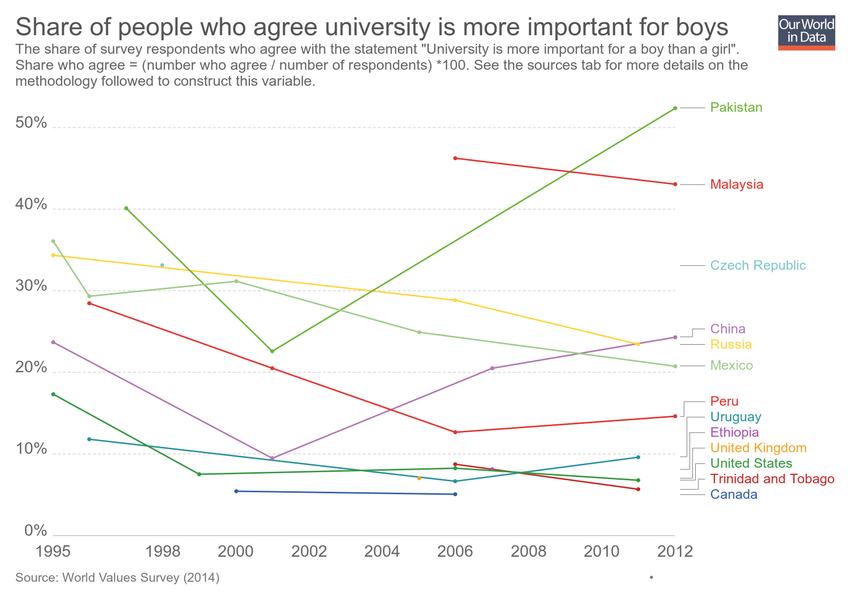
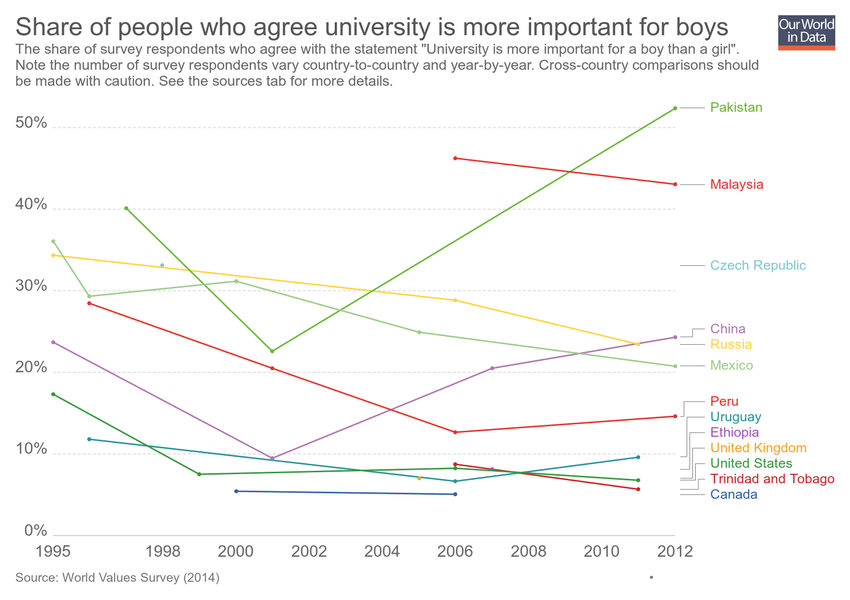
Updating chart share-of-people-who-agree-university-is-more-important-for-boys

Changed region(s): [[0.0, 0.09, 0.8871, 0.15]]

diff --git a/grapher/share-of-people-who-agree-university-is-more-important-for-boys.html b/grapher/share-of-people-who-agree-university-is-more-important-for-boys.html
@@ -1,7 +1,4 @@
-<!doctype html><html><head><meta name="viewport" content="width=device-width, initial-scale=1" /><title>Share of people who agree university is more important for boys - Our World in Data</title><meta name="description" content="The share of survey respondents who agree with the statement &quot;University is more important for a boy than a girl&quot;. 
-Share who agree = (number who agree / number of respondents) *100. See the sources tab for more details on the methodology followed to construct this variable." /><link rel="canonical" href="https://ourworldindata.org/grapher/share-of-people-who-agree-university-is-more-important-for-boys" /><meta property="fb:app_id" content="1149943818390250" /><meta property="og:url" content="https://ourworldindata.org/grapher/share-of-people-who-agree-university-is-more-important-for-boys" /><meta property="og:title" content="Share of people who agree university is more important for boys" /><meta property="og:description" content="The share of survey respondents who agree with the statement &quot;University is more important for a boy than a girl&quot;. 
-Share who agree = (number who agree / number of respondents) *100. See the sources tab for more details on the methodology followed to construct this variable." /><meta property="og:image" content="https://ourworldindata.org/grapher/exports/share-of-people-who-agree-university-is-more-important-for-boys.png?v=1" /><meta property="og:image:width" content="850" /><meta property="og:image:height" content="600" /><meta property="og:site_name" content="Our World in Data" /><meta name="twitter:card" content="summary_large_image" /><meta name="twitter:site" content="@OurWorldInData" /><meta name="twitter:creator" content="@OurWorldInData" /><meta name="twitter:title" content="Share of people who agree university is more important for boys" /><meta name="twitter:description" content="The share of survey respondents who agree with the statement &quot;University is more important for a boy than a girl&quot;. 
-Share who agree = (number who agree / number of respondents) *100. See the sources tab for more details on the methodology followed to construct this variable." /><meta name="twitter:image" content="https://ourworldindata.org/grapher/exports/share-of-people-who-agree-university-is-more-important-for-boys.png?v=1" /><style>
+<!doctype html><html><head><meta name="viewport" content="width=device-width, initial-scale=1" /><title>Share of people who agree university is more important for boys - Our World in Data</title><meta name="description" content="The share of survey respondents who agree with the statement &quot;University is more important for a boy than a girl&quot;. Note the number of survey respondents vary country-to-country and year-by-year. Cross-country comparisons should be made with caution. See the sources tab for more details." /><link rel="canonical" href="https://ourworldindata.org/grapher/share-of-people-who-agree-university-is-more-important-for-boys" /><meta property="fb:app_id" content="1149943818390250" /><meta property="og:url" content="https://ourworldindata.org/grapher/share-of-people-who-agree-university-is-more-important-for-boys" /><meta property="og:title" content="Share of people who agree university is more important for boys" /><meta property="og:description" content="The share of survey respondents who agree with the statement &quot;University is more important for a boy than a girl&quot;. Note the number of survey respondents vary country-to-country and year-by-year. Cross-country comparisons should be made with caution. See the sources tab for more details." /><meta property="og:image" content="https://ourworldindata.org/grapher/exports/share-of-people-who-agree-university-is-more-important-for-boys.png?v=2" /><meta property="og:image:width" content="850" /><meta property="og:image:height" content="600" /><meta property="og:site_name" content="Our World in Data" /><meta name="twitter:card" content="summary_large_image" /><meta name="twitter:site" content="@OurWorldInData" /><meta name="twitter:creator" content="@OurWorldInData" /><meta name="twitter:title" content="Share of people who agree university is more important for boys" /><meta name="twitter:description" content="The share of survey respondents who agree with the statement &quot;University is more important for a boy than a girl&quot;. Note the number of survey respondents vary country-to-country and year-by-year. Cross-country comparisons should be made with caution. See the sources tab for more details." /><meta name="twitter:image" content="https://ourworldindata.org/grapher/exports/share-of-people-who-agree-university-is-more-important-for-boys.png?v=2" /><style>
         html, body {
             height: 100%;
             margin: 0;
@@ -23,8 +20,8 @@ Share who agree = (number who agree / number of respondents) *100. See the sourc
         }
     </style><noscript><style>
                     figure { display: none !important; }
-                </style></noscript><link rel="stylesheet" href="https://ourworldindata.org/grapher/assets/commons.bundle.dcbbe53805c487d5e57617b10ac73a8a.css" /><link rel="preload" href="/grapher/data/variables/97464.json?v=1" as="fetch" crossorigin /></head><body class="singleChart"><figure data-grapher-src="/grapher/share-of-people-who-agree-university-is-more-important-for-boys"></figure><noscript id="fallback"><img src="/grapher/exports/share-of-people-who-agree-university-is-more-important-for-boys.svg" /><p>Interactive visualization requires JavaScript</p></noscript><script src="https://cdn.polyfill.io/v2/polyfill.min.js?features=es6,fetch"></script><script src="https://ourworldindata.org/grapher/assets/commons.bundle.db4e4065dcbf33bcd3d7.js"></script><script src="https://ourworldindata.org/grapher/assets/charts.bundle.db4e4065dcbf33bcd3d7.js"></script><script>
-        var jsonConfig = {"map":{"projection":"World","targetYear":2014,"variableId":97464,"timeTolerance":4,"colorSchemeLabels":[],"colorSchemeValues":[],"customNumericColors":[],"customCategoryColors":{},"customCategoryLabels":{},"customHiddenCategories":{}},"tab":"chart","slug":"share-of-people-who-agree-university-is-more-important-for-boys","type":"LineChart","title":"Share of people who agree university is more important for boys","xAxis":{"scaleType":"linear"},"yAxis":{"min":0,"scaleType":"linear"},"version":1,"subtitle":"The share of survey respondents who agree with the statement \"University is more important for a boy than a girl\". \nShare who agree = (number who agree / number of respondents) *100. See the sources tab for more details on the methodology followed to construct this variable.","hasMapTab":true,"stackMode":"absolute","dimensions":[{"display":{},"property":"y","variableId":97464}],"isAutoSlug":true,"hasChartTab":true,"isPublished":true,"selectedData":[{"index":0,"entityId":73},{"index":0,"entityId":158},{"index":0,"entityId":63},{"index":0,"entityId":162},{"index":0,"entityId":171},{"index":0,"entityId":44},{"index":0,"entityId":1},{"index":0,"entityId":13},{"index":0,"entityId":12},{"index":0,"entityId":97},{"index":0,"entityId":101},{"index":0,"entityId":113},{"index":0,"entityId":116}],"addCountryMode":"add-country","id":2652};
+                </style></noscript><link rel="stylesheet" href="https://ourworldindata.org/grapher/assets/commons.bundle.dcbbe53805c487d5e57617b10ac73a8a.css" /><link rel="preload" href="/grapher/data/variables/97464.json?v=2" as="fetch" crossorigin /></head><body class="singleChart"><figure data-grapher-src="/grapher/share-of-people-who-agree-university-is-more-important-for-boys"></figure><noscript id="fallback"><img src="/grapher/exports/share-of-people-who-agree-university-is-more-important-for-boys.svg" /><p>Interactive visualization requires JavaScript</p></noscript><script src="https://cdn.polyfill.io/v2/polyfill.min.js?features=es6,fetch"></script><script src="https://ourworldindata.org/grapher/assets/commons.bundle.db4e4065dcbf33bcd3d7.js"></script><script src="https://ourworldindata.org/grapher/assets/charts.bundle.db4e4065dcbf33bcd3d7.js"></script><script>
+        var jsonConfig = {"id":2652,"map":{"projection":"World","targetYear":2014,"variableId":97464,"timeTolerance":4,"colorSchemeLabels":[],"colorSchemeValues":[],"customNumericColors":[],"customCategoryColors":{},"customCategoryLabels":{},"customHiddenCategories":{}},"tab":"chart","slug":"share-of-people-who-agree-university-is-more-important-for-boys","type":"LineChart","title":"Share of people who agree university is more important for boys","xAxis":{"scaleType":"linear"},"yAxis":{"min":0,"scaleType":"linear"},"version":2,"subtitle":"The share of survey respondents who agree with the statement \"University is more important for a boy than a girl\". Note the number of survey respondents vary country-to-country and year-by-year. Cross-country comparisons should be made with caution. See the sources tab for more details.","hasMapTab":true,"stackMode":"absolute","dimensions":[{"display":{},"property":"y","variableId":97464}],"hasChartTab":true,"isPublished":true,"selectedData":[{"index":0,"entityId":73},{"index":0,"entityId":158},{"index":0,"entityId":63},{"index":0,"entityId":162},{"index":0,"entityId":171},{"index":0,"entityId":44},{"index":0,"entityId":1},{"index":0,"entityId":13},{"index":0,"entityId":12},{"index":0,"entityId":97},{"index":0,"entityId":101},{"index":0,"entityId":113},{"index":0,"entityId":116}],"addCountryMode":"add-country"};
         var figure = document.getElementsByTagName("figure")[0];
         try {
             window.App = {};
